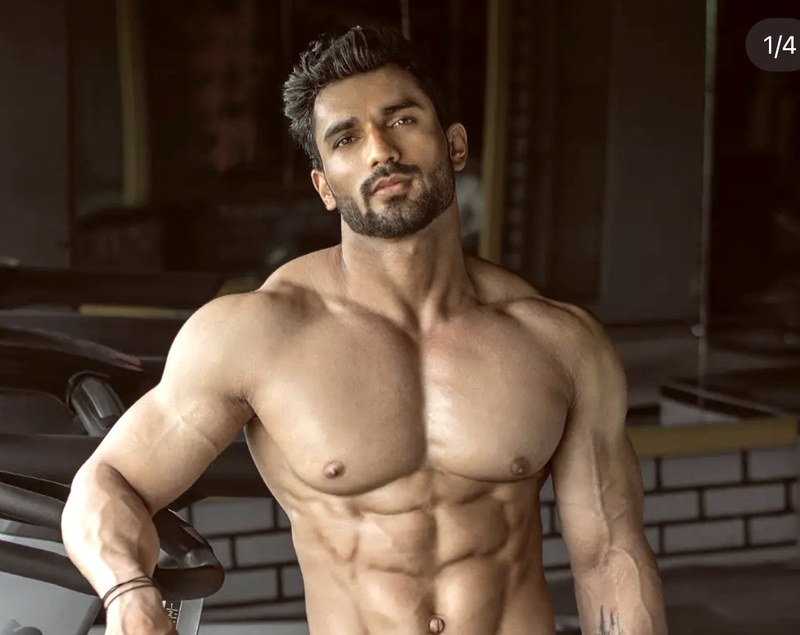
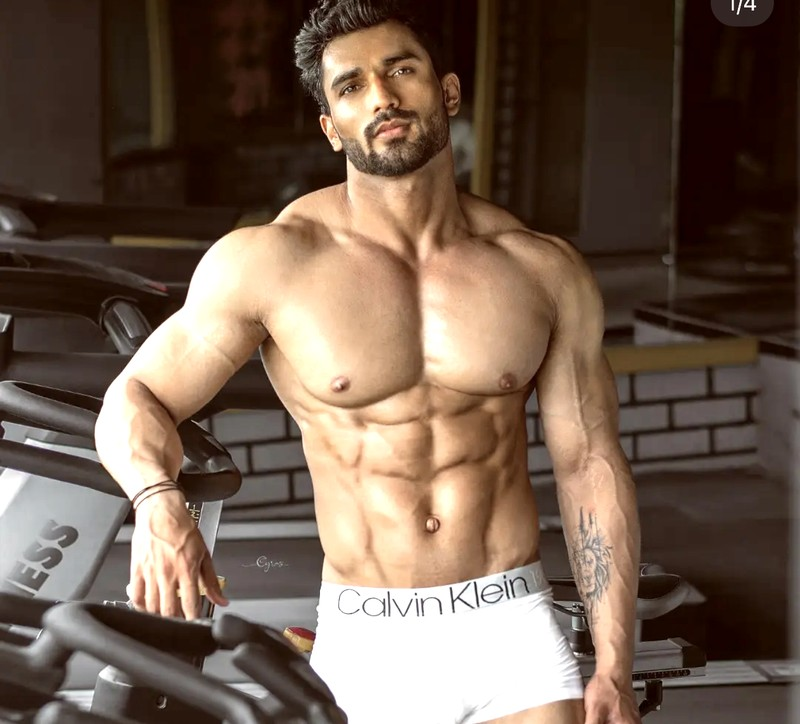
feat: mobile hero redesign - badge on black top, face clear middle, text on chest bottom

diff --git a/src/components/sections/Hero.tsx b/src/components/sections/Hero.tsx
@@ -84,31 +84,102 @@ export default function Hero() {
 
       {/* ── MOBILE LAYOUT ── full bleed photo with gradient */}
       <div className="md:hidden absolute inset-0">
-        <img
-          src="/images/priyank-hero-mobile.jpg"
-          alt="Priyank Chaturvedi"
-          className="w-full h-full object-cover"
-          style={{ objectPosition: "center top" }}
-        />
-        {/* Very light top, heavy bottom — face visible, text readable */}
-        <div
-          className="absolute inset-0"
-          style={{
-            background: "linear-gradient(180deg, rgba(5,5,15,0.05) 0%, rgba(5,5,15,0.02) 20%, rgba(5,5,15,0.55) 58%, rgba(5,5,15,0.97) 82%, #05050f 100%)",
-          }}
-        />
-        {/* Cool blue tint to neutralise warm photo reds so UI red pops */}
-        <div className="absolute inset-0" style={{ background: "rgba(8,12,28,0.22)" }} />
+        {/* Image pushed DOWN — face visible in middle of screen */}
+        <div className="absolute inset-0" style={{ top: "8%" }}>
+          <img
+            src="/images/priyank-hero-mobile.jpg"
+            alt="Priyank Chaturvedi"
+            className="w-full h-full object-cover"
+            style={{ objectPosition: "center top" }}
+          />
+        </div>
+        {/* Top black band — badge sits here cleanly */}
+        <div className="absolute left-0 right-0" style={{ top: 0, height: "22%", background: "linear-gradient(180deg, #0A0A0A 60%, rgba(10,10,10,0) 100%)" }} />
+        {/* Mid: transparent — face & chest fully visible */}
+        {/* Bottom black band — text sits here */}
+        <div className="absolute left-0 right-0 bottom-0" style={{ height: "45%", background: "linear-gradient(0deg, #0A0A0A 65%, rgba(10,10,10,0.85) 85%, transparent 100%)" }} />
+        {/* Cool tint to stop photo reds clashing with brand red */}
+        <div className="absolute inset-0" style={{ background: "rgba(8,12,28,0.15)" }} />
         <div className="absolute inset-0 grid-texture opacity-10" />
       </div>
 
       {/* ── CONTENT ── */}
       <div className="relative flex flex-col min-h-screen" style={{ zIndex: 2 }}>
+
+        {/* ── MOBILE CONTENT: Badge top, heading bottom over chest ── */}
+        <div className="md:hidden flex flex-col min-h-screen">
+          {/* Badge — sits on black band at very top */}
+          <div className="px-5 pt-24 pb-0">
+            <div
+              className="inline-flex items-center gap-2 px-4 py-2 rounded-full"
+              style={{ background: "rgba(10,10,10,0.9)", border: "1px solid rgba(230,51,41,0.4)" }}
+            >
+              <span className="pulse-dot" />
+              <span style={{ fontFamily: "var(--font-condensed)", fontSize: "0.65rem", letterSpacing: "0.15em", textTransform: "uppercase", color: "var(--red)" }}>
+                Limited Clients Only — Delhi & Online
+              </span>
+            </div>
+          </div>
+
+          {/* Spacer — face lives here, nothing overlaps it */}
+          <div className="flex-1" />
+
+          {/* Bottom content — sits over chest area */}
+          <div className="px-5 pb-4">
+            <h1 style={{ fontFamily: "var(--font-display)", fontSize: "clamp(4rem, 18vw, 6rem)", lineHeight: 0.87, letterSpacing: "0.02em", marginBottom: "0.75rem" }}>
+              <span className="block text-white">TRANSFORM</span>
+              <span className="block" style={{ color: "var(--red)" }}>YOUR</span>
+              <span className="block text-white">BODY</span>
+            </h1>
+            <p className="text-gray-300 mb-3" style={{ fontSize: "0.88rem", lineHeight: 1.65 }}>
+              Fat Loss · Muscle Gain · Body Transformation.{" "}
+              <span className="text-white font-semibold">Science-based training</span> in Delhi & online across India.
+            </p>
+            <a
+              href="https://share.google/FgEa9hLLnQc5d5gjR"
+              target="_blank"
+              rel="noopener noreferrer"
+              className="inline-flex items-center gap-2 mb-5"
+              style={{ color: "#4ade80", fontFamily: "var(--font-condensed)", fontSize: "0.75rem", letterSpacing: "0.05em" }}
+            >
+              <svg width="12" height="12" viewBox="0 0 24 24" fill="currentColor">
+                <path d="M12 2C8.13 2 5 5.13 5 9c0 5.25 7 13 7 13s7-7.75 7-13c0-3.87-3.13-7-7-7zm0 9.5c-1.38 0-2.5-1.12-2.5-2.5s1.12-2.5 2.5-2.5 2.5 1.12 2.5 2.5-1.12 2.5-2.5 2.5z"/>
+              </svg>
+              Find us on Google · Personal Trainer Delhi
+            </a>
+            <div className="flex flex-col gap-3 mb-5">
+              <a href="#contact" className="btn-primary justify-center">
+                <svg width="15" height="15" viewBox="0 0 24 24" fill="currentColor">
+                  <path d="M17 12h-5v5h5v-5zM16 1v2H8V1H6v2H5c-1.11 0-1.99.9-1.99 2L3 19c0 1.1.89 2 2 2h14c1.1 0 2-.9 2-2V5c0-1.1-.9-2-2-2h-1V1h-2zm3 18H5V8h14v11z"/>
+                </svg>
+                Book Free Trial
+              </a>
+              <a href={`https://wa.me/${WHATSAPP}`} target="_blank" rel="noopener noreferrer" className="btn-secondary justify-center">
+                <svg width="15" height="15" viewBox="0 0 24 24" fill="#25D366">
+                  <path d="M17.472 14.382c-.297-.149-1.758-.867-2.03-.967-.273-.099-.471-.148-.67.15-.197.297-.767.966-.94 1.164-.173.199-.347.223-.644.075-.297-.15-1.255-.463-2.39-1.475-.883-.788-1.48-1.761-1.653-2.059-.173-.297-.018-.458.13-.606.134-.133.298-.347.446-.52.149-.174.198-.298.298-.497.099-.198.05-.371-.025-.52-.075-.149-.669-1.612-.916-2.207-.242-.579-.487-.5-.669-.51-.173-.008-.371-.01-.57-.01-.198 0-.52.074-.792.372-.272.297-1.04 1.016-1.04 2.479 0 1.462 1.065 2.875 1.213 3.074.149.198 2.096 3.2 5.077 4.487.709.306 1.262.489 1.694.625.712.227 1.36.195 1.871.118.571-.085 1.758-.719 2.006-1.413.248-.694.248-1.289.173-1.413-.074-.124-.272-.198-.57-.347m-5.421 7.403h-.004a9.87 9.87 0 01-5.031-1.378l-.361-.214-3.741.982.998-3.648-.235-.374a9.86 9.86 0 01-1.51-5.26c.001-5.45 4.436-9.884 9.888-9.884 2.64 0 5.122 1.03 6.988 2.898a9.825 9.825 0 012.893 6.994c-.003 5.45-4.437 9.884-9.885 9.884m8.413-18.297A11.815 11.815 0 0012.05 0C5.495 0 .16 5.335.157 11.892c0 2.096.547 4.142 1.588 5.945L.057 24l6.305-1.654a11.882 11.882 0 005.683 1.448h.005c6.554 0 11.89-5.335 11.893-11.893a11.821 11.821 0 00-3.48-8.413z"/>
+                </svg>
+                WhatsApp Me
+              </a>
+            </div>
+            <div className="flex items-center gap-3">
+              <div className="flex -space-x-2">
+                {["https://images.unsplash.com/photo-1571019613454-1cb2f99b2d8b?w=40&h=40&fit=crop&crop=face","https://images.unsplash.com/photo-1438761681033-6461ffad8d80?w=40&h=40&fit=crop&crop=face","https://images.unsplash.com/photo-1500648767791-00dcc994a43e?w=40&h=40&fit=crop&crop=face"].map((s,i)=>(
+                  <img key={i} src={s} alt="" className="w-8 h-8 rounded-full object-cover border-2" style={{borderColor:"#0A0A0A"}}/>
+                ))}
+              </div>
+              <div>
+                <div className="flex gap-0.5 mb-0.5">{[...Array(5)].map((_,i)=><svg key={i} width="10" height="10" viewBox="0 0 24 24" fill="#F59E0B"><path d="M12 2l3.09 6.26L22 9.27l-5 4.87 1.18 6.88L12 17.77l-6.18 3.25L7 14.14 2 9.27l6.91-1.01L12 2z"/></svg>)}</div>
+                <p className="text-gray-400" style={{fontSize:"0.7rem"}}>500+ happy clients in Delhi</p>
+              </div>
+            </div>
+          </div>
+        </div>
+
+        {/* ── DESKTOP CONTENT ── */}
+        <div className="hidden md:flex flex-col min-h-screen">
         <div className="flex-1 flex items-center">
           <div className="max-w-7xl mx-auto px-6 pt-24 pb-8 w-full">
             <div className="max-w-xl">
-
-              {/* Badge */}
               <div
                 className="inline-flex items-center gap-2 mb-5 px-4 py-2 rounded-full"
                 style={{ background: "rgba(230,51,41,0.12)", border: "1px solid rgba(230,51,41,0.3)" }}
@@ -118,87 +189,41 @@ export default function Hero() {
                   Limited Clients Only — Delhi & Online
                 </span>
               </div>
-
-              {/* Heading */}
-              <h1
-                style={{
-                  fontFamily: "var(--font-display)",
-                  fontSize: "clamp(5rem, 16vw, 9.5rem)",
-                  lineHeight: 0.87,
-                  letterSpacing: "0.02em",
-                  marginBottom: "1.25rem",
-                }}
-              >
+              <h1 style={{ fontFamily: "var(--font-display)", fontSize: "clamp(5rem, 16vw, 9.5rem)", lineHeight: 0.87, letterSpacing: "0.02em", marginBottom: "1.25rem" }}>
                 <span className="block text-white">TRANSFORM</span>
                 <span className="block" style={{ color: "var(--red)", textShadow: "0 0 40px rgba(230,51,41,0.4)" }}>YOUR</span>
                 <span className="block text-white">BODY</span>
               </h1>
-
-              {/* Subtitle */}
-              <p
-                className="text-gray-300 mb-3"
-                style={{ fontSize: "clamp(0.88rem, 2.2vw, 1rem)", lineHeight: 1.75, maxWidth: 440 }}
-              >
+              <p className="text-gray-300 mb-3" style={{ fontSize: "clamp(0.88rem, 2.2vw, 1rem)", lineHeight: 1.75, maxWidth: 440 }}>
                 Fat Loss · Muscle Gain · Body Transformation.{" "}
                 <span className="text-white font-semibold">Science-based personal training</span>{" "}
                 in Delhi, Laxmi Nagar — and online across India.
               </p>
-
-              {/* Google listing */}
-              <a
-                href="https://share.google/FgEa9hLLnQc5d5gjR"
-                target="_blank"
-                rel="noopener noreferrer"
+              <a href="https://share.google/FgEa9hLLnQc5d5gjR" target="_blank" rel="noopener noreferrer"
                 className="inline-flex items-center gap-2 mb-7 transition-opacity hover:opacity-80"
-                style={{ color: "#4ade80", fontFamily: "var(--font-condensed)", fontSize: "0.78rem", letterSpacing: "0.05em" }}
-              >
-                <svg width="13" height="13" viewBox="0 0 24 24" fill="currentColor">
-                  <path d="M12 2C8.13 2 5 5.13 5 9c0 5.25 7 13 7 13s7-7.75 7-13c0-3.87-3.13-7-7-7zm0 9.5c-1.38 0-2.5-1.12-2.5-2.5s1.12-2.5 2.5-2.5 2.5 1.12 2.5 2.5-1.12 2.5-2.5 2.5z"/>
-                </svg>
+                style={{ color: "#4ade80", fontFamily: "var(--font-condensed)", fontSize: "0.78rem", letterSpacing: "0.05em" }}>
+                <svg width="13" height="13" viewBox="0 0 24 24" fill="currentColor"><path d="M12 2C8.13 2 5 5.13 5 9c0 5.25 7 13 7 13s7-7.75 7-13c0-3.87-3.13-7-7-7zm0 9.5c-1.38 0-2.5-1.12-2.5-2.5s1.12-2.5 2.5-2.5 2.5 1.12 2.5 2.5-1.12 2.5-2.5 2.5z"/></svg>
                 Find us on Google · Personal Trainer Delhi
               </a>
-
-              {/* CTAs */}
               <div className="flex flex-col sm:flex-row gap-3 mb-8">
                 <a href="#contact" className="btn-primary justify-center sm:justify-start">
-                  <svg width="15" height="15" viewBox="0 0 24 24" fill="currentColor">
-                    <path d="M17 12h-5v5h5v-5zM16 1v2H8V1H6v2H5c-1.11 0-1.99.9-1.99 2L3 19c0 1.1.89 2 2 2h14c1.1 0 2-.9 2-2V5c0-1.1-.9-2-2-2h-1V1h-2zm3 18H5V8h14v11z"/>
-                  </svg>
+                  <svg width="15" height="15" viewBox="0 0 24 24" fill="currentColor"><path d="M17 12h-5v5h5v-5zM16 1v2H8V1H6v2H5c-1.11 0-1.99.9-1.99 2L3 19c0 1.1.89 2 2 2h14c1.1 0 2-.9 2-2V5c0-1.1-.9-2-2-2h-1V1h-2zm3 18H5V8h14v11z"/></svg>
                   Book Free Trial
                 </a>
-                <a
-                  href={`https://wa.me/${WHATSAPP}`}
-                  target="_blank"
-                  rel="noopener noreferrer"
-                  className="btn-secondary justify-center sm:justify-start"
-                >
-                  <svg width="15" height="15" viewBox="0 0 24 24" fill="#25D366">
-                    <path d="M17.472 14.382c-.297-.149-1.758-.867-2.03-.967-.273-.099-.471-.148-.67.15-.197.297-.767.966-.94 1.164-.173.199-.347.223-.644.075-.297-.15-1.255-.463-2.39-1.475-.883-.788-1.48-1.761-1.653-2.059-.173-.297-.018-.458.13-.606.134-.133.298-.347.446-.52.149-.174.198-.298.298-.497.099-.198.05-.371-.025-.52-.075-.149-.669-1.612-.916-2.207-.242-.579-.487-.5-.669-.51-.173-.008-.371-.01-.57-.01-.198 0-.52.074-.792.372-.272.297-1.04 1.016-1.04 2.479 0 1.462 1.065 2.875 1.213 3.074.149.198 2.096 3.2 5.077 4.487.709.306 1.262.489 1.694.625.712.227 1.36.195 1.871.118.571-.085 1.758-.719 2.006-1.413.248-.694.248-1.289.173-1.413-.074-.124-.272-.198-.57-.347m-5.421 7.403h-.004a9.87 9.87 0 01-5.031-1.378l-.361-.214-3.741.982.998-3.648-.235-.374a9.86 9.86 0 01-1.51-5.26c.001-5.45 4.436-9.884 9.888-9.884 2.64 0 5.122 1.03 6.988 2.898a9.825 9.825 0 012.893 6.994c-.003 5.45-4.437 9.884-9.885 9.884m8.413-18.297A11.815 11.815 0 0012.05 0C5.495 0 .16 5.335.157 11.892c0 2.096.547 4.142 1.588 5.945L.057 24l6.305-1.654a11.882 11.882 0 005.683 1.448h.005c6.554 0 11.89-5.335 11.893-11.893a11.821 11.821 0 00-3.48-8.413z"/>
-                  </svg>
+                <a href={`https://wa.me/${WHATSAPP}`} target="_blank" rel="noopener noreferrer" className="btn-secondary justify-center sm:justify-start">
+                  <svg width="15" height="15" viewBox="0 0 24 24" fill="#25D366"><path d="M17.472 14.382c-.297-.149-1.758-.867-2.03-.967-.273-.099-.471-.148-.67.15-.197.297-.767.966-.94 1.164-.173.199-.347.223-.644.075-.297-.15-1.255-.463-2.39-1.475-.883-.788-1.48-1.761-1.653-2.059-.173-.297-.018-.458.13-.606.134-.133.298-.347.446-.52.149-.174.198-.298.298-.497.099-.198.05-.371-.025-.52-.075-.149-.669-1.612-.916-2.207-.242-.579-.487-.5-.669-.51-.173-.008-.371-.01-.57-.01-.198 0-.52.074-.792.372-.272.297-1.04 1.016-1.04 2.479 0 1.462 1.065 2.875 1.213 3.074.149.198 2.096 3.2 5.077 4.487.709.306 1.262.489 1.694.625.712.227 1.36.195 1.871.118.571-.085 1.758-.719 2.006-1.413.248-.694.248-1.289.173-1.413-.074-.124-.272-.198-.57-.347m-5.421 7.403h-.004a9.87 9.87 0 01-5.031-1.378l-.361-.214-3.741.982.998-3.648-.235-.374a9.86 9.86 0 01-1.51-5.26c.001-5.45 4.436-9.884 9.888-9.884 2.64 0 5.122 1.03 6.988 2.898a9.825 9.825 0 012.893 6.994c-.003 5.45-4.437 9.884-9.885 9.884m8.413-18.297A11.815 11.815 0 0012.05 0C5.495 0 .16 5.335.157 11.892c0 2.096.547 4.142 1.588 5.945L.057 24l6.305-1.654a11.882 11.882 0 005.683 1.448h.005c6.554 0 11.89-5.335 11.893-11.893a11.821 11.821 0 00-3.48-8.413z"/></svg>
                   WhatsApp Me
                 </a>
               </div>
-
-              {/* Social proof */}
               <div className="flex items-center gap-3">
                 <div className="flex -space-x-2">
-                  {[
-                    "https://images.unsplash.com/photo-1571019613454-1cb2f99b2d8b?w=40&h=40&fit=crop&crop=face",
-                    "https://images.unsplash.com/photo-1438761681033-6461ffad8d80?w=40&h=40&fit=crop&crop=face",
-                    "https://images.unsplash.com/photo-1500648767791-00dcc994a43e?w=40&h=40&fit=crop&crop=face",
-                  ].map((src, i) => (
-                    <img key={i} src={src} alt="" className="w-8 h-8 rounded-full object-cover border-2" style={{ borderColor: "#0A0A0A" }} />
+                  {["https://images.unsplash.com/photo-1571019613454-1cb2f99b2d8b?w=40&h=40&fit=crop&crop=face","https://images.unsplash.com/photo-1438761681033-6461ffad8d80?w=40&h=40&fit=crop&crop=face","https://images.unsplash.com/photo-1500648767791-00dcc994a43e?w=40&h=40&fit=crop&crop=face"].map((s,i)=>(
+                    <img key={i} src={s} alt="" className="w-8 h-8 rounded-full object-cover border-2" style={{borderColor:"#0A0A0A"}}/>
                   ))}
                 </div>
                 <div>
-                  <div className="flex gap-0.5 mb-0.5">
-                    {[...Array(5)].map((_, i) => (
-                      <svg key={i} width="10" height="10" viewBox="0 0 24 24" fill="#F59E0B">
-                        <path d="M12 2l3.09 6.26L22 9.27l-5 4.87 1.18 6.88L12 17.77l-6.18 3.25L7 14.14 2 9.27l6.91-1.01L12 2z"/>
-                      </svg>
-                    ))}
-                  </div>
-                  <p className="text-gray-400" style={{ fontSize: "0.7rem" }}>500+ happy clients in Delhi</p>
+                  <div className="flex gap-0.5 mb-0.5">{[...Array(5)].map((_,i)=><svg key={i} width="10" height="10" viewBox="0 0 24 24" fill="#F59E0B"><path d="M12 2l3.09 6.26L22 9.27l-5 4.87 1.18 6.88L12 17.77l-6.18 3.25L7 14.14 2 9.27l6.91-1.01L12 2z"/></svg>)}</div>
+                  <p className="text-gray-400" style={{fontSize:"0.7rem"}}>500+ happy clients in Delhi</p>
                 </div>
               </div>
             </div>
